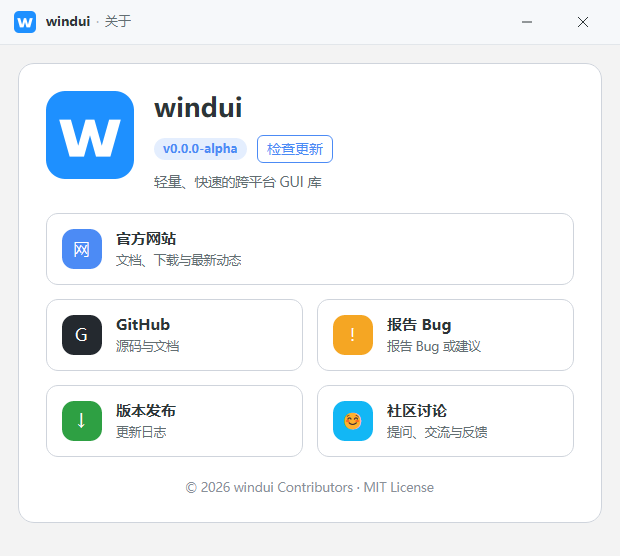
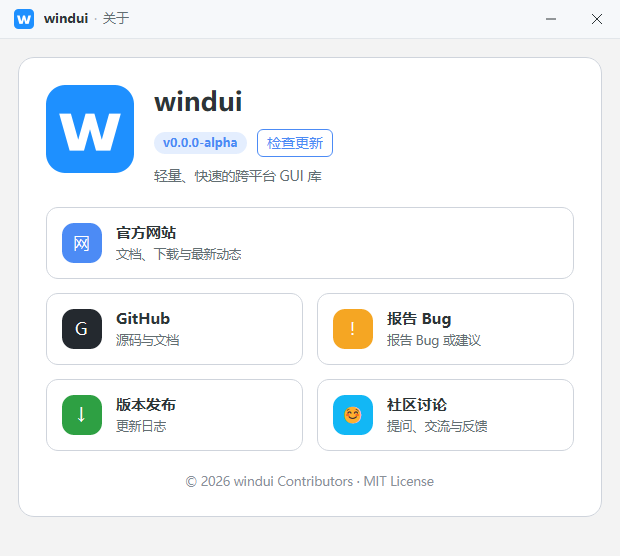
feat(examples): 标题栏改全包式，按钮吃满整条、关闭键落在窗口圆角上
示例外壳 Shell 的标题栏此前是「按钮浮在条中间、右侧还留 14px」，
与 Windows 差得一眼可见。三处调整都在布局，控件一行没改：

- cross(Align::Center) 改 Stretch。WindowButton::measure 报的是
  BTN_H = 32，Center 会照此把按钮浮在条中间；Stretch 用容器高度
  覆盖它，按钮才吃满整条。
- padding_xy(14, 0) 从标题栏 row 下沉到左侧品牌区。挂 row 上是四周
  一起缩，最右那枚按钮被推离窗口边 14px，圆角处露出一块底色。
- 高度 44 改 38，logo 22 改 20。44 让按钮成 46×44 近正方形；38 是
  46×38，与系统的 46×32 同一个观感，又放得下 logo。

关闭键的 hover 红底仍按方角画：窗口在 Win11 上声明了 DWMWCP_ROUND，
合成期由 DWM 裁角。真窗口抓屏核到顶部逐行右缘 10→7→6→5→4→3→2 的
收敛曲线，即圆角轮廓；改前是恒定的 20（方角、没到边）。
--screenshot 读客户区后备纹理，四角恒方，这条只能靠抓屏验。

明暗切换键一并改成标题栏条目，与三枚窗口按钮同一套视觉：
- icon_button 换 stack().clickable()。IconButton 的圆角是
  `if corner_radius > 0 { 它 } else { theme.corner_sm }`，
  .corner(0.0) 拿不到方角，只会回落到主题圆角。
- 尺寸钉 46 宽 + height_match，图标色 TextMuted 改 Text——此前比
  邻居淡一档。
- 居中的 align 挂在图标而非容器上：align 是「自身在父容器里的对齐」，
  挂容器上对子元素无效，实测字形偏在格子左上角（dx=-16.5 dy=-10）。

仍存一处未对齐：Clickable 的 hover 叠层是 palette.text × 0.06，
WindowButton 用的是据标题栏底亮度选的写死值（亮底 0x14 暗底 0x20），
亮色下压暗 12 级 vs 20 级。要精确对齐得把那段叠层逻辑抽成可复用的，
留待与下游 wind-dict 的 bar_entry 一并处理。

readme_shots.ps1 的三个 --click 随标题栏矮 6px 重新量准；七张配图重生。

diff --git a/examples/common/mod.rs b/examples/common/mod.rs
@@ -19,7 +19,11 @@
 use windui::prelude::*;
 
 /// 标题栏高度（逻辑像素）。窗口按钮的命中区按它撑满，故改这里即可整体调整。
-pub const TITLEBAR_H: i32 = 44;
+///
+/// 38 而非 Windows 系统标题栏那个 32：这一条里还要放下 20px 的 logo，32 会让它上下
+/// 只剩 6px、挤得贴边。38 与下游 wind-dict 同值，按钮成 46×38——仍是横向舒展的扁矩形，
+/// 与系统的 46×32 同一个观感。**曾经是 44**，那让按钮接近正方形，一眼就不像 Windows。
+pub const TITLEBAR_H: i32 = 38;
 
 /// 示例窗口的外壳配置。
 ///
@@ -52,6 +56,12 @@ impl Shell {
 
     /// 在窗口按钮**左侧**插入自定义元素（明暗切换、页内动作等）。
     ///
+    /// 元素会被标题栏的 `cross(Align::Stretch)` **拉到整条满高**，与窗口按钮连成一排，
+    /// 中间不留缝——这正是全包式想要的样子。所以放进来的东西得经得起拉伸：`clickable()`
+    /// 容器（方角、hover 铺满）合适，`icon_button` 那类自带圆角底的**不合适**，会变成
+    /// 一根竖着的圆角条杵在方角按钮旁边。要保持自然高度，自己包一层
+    /// `Element::row().cross(Align::Center)`。现成的例子见 [`theme_toggle`]。
+    ///
     /// 注意它落在 `window_drag()` 区域内：可聚焦的控件（按钮等）会自行吃掉按下事件、
     /// 不触发拖窗；纯 `Label` 则会连同标题栏一起被拖走——需要点击的请用 `clickable()`
     /// 容器或正经控件包一层。
@@ -62,40 +72,66 @@ impl Shell {
 
     /// 只构建标题栏本身。需要把它塞进更复杂的层叠结构时用；
     /// 常规情况直接用 [`wrap`](Shell::wrap)。
+    ///
+    /// 窗口按钮走**全包式**（同 `frameless` / `light_titlebar` 两个示例，以及下游
+    /// wind-dict）：按钮吃满整条标题栏的高度，最右那枚关闭键与窗口右边齐平。两处
+    /// 都是布局说了算，不用改控件：
+    ///
+    /// - `cross(Align::Stretch)` 覆盖掉 `WindowButton::measure` 报的 `BTN_H = 32`，
+    ///   按钮高度变成 `TITLEBAR_H`。此前是 `Align::Center`，按钮只有 32 高、浮在
+    ///   44 高的条中间，hover 底色是一枚悬空的小方块。
+    /// - 内边距挂在**左侧品牌区**这个子容器上，不挂在整条 row 上。挂 row 上是四周
+    ///   一起缩，右侧按钮会被推离窗口边 14px，圆角处就空出一块底色。
+    ///
+    /// 关闭键的 hover 红底照旧按方角 `fill_rect` 画：窗口在 Win11 上显式声明了
+    /// `DWMWCP_ROUND`（见 `platform::win32`），合成期由 DWM 裁角，落到屏上自然是
+    /// 圆角。自己再画一遍圆角反而会与系统的半径对不齐。
     pub fn titlebar(self) -> Element {
         let mut bar = Element::row()
             .width_match()
             .height(TITLEBAR_H)
-            .cross(Align::Center)
-            .padding_xy(14, 0)
-            .spacing(10)
+            .cross(Align::Stretch)
             .bg_role(Role::SurfaceAlt)
             .window_drag()
-            .child(brand_logo(22))
-            // 三段式标题：产品名加粗、间隔点与副标题弱化，形成层级而不是一行同权重的字。
+            // 品牌区：logo + 三段式标题。自带内边距与间距，见上面那段。
+            // 里层重新 `cross(Center)`，免得 Stretch 把 logo 与文字拉变形。
             .child(
                 Element::row()
                     .cross(Align::Center)
-                    .spacing(5)
+                    .padding_xy(14, 0)
+                    .spacing(10)
+                    .child(brand_logo(20))
+                    // 三段式标题：产品名加粗、间隔点与副标题弱化，形成层级而不是一行同权重的字。
                     .child(
-                        Element::label("windui")
-                            .font_size(13.0)
-                            .font_weight(600)
-                            .fg_role(Role::Text),
-                    )
-                    .child(
-                        Element::label("·")
-                            .font_size(13.0)
-                            .fg_role(Role::TextDisabled),
-                    )
-                    .child(
-                        Element::label(self.subtitle)
-                            .font_size(13.0)
-                            .fg_role(Role::TextMuted),
+                        Element::row()
+                            .cross(Align::Center)
+                            .spacing(5)
+                            .child(
+                                Element::label("windui")
+                                    .font_size(13.0)
+                                    .font_weight(600)
+                                    .fg_role(Role::Text),
+                            )
+                            .child(
+                                Element::label("·")
+                                    .font_size(13.0)
+                                    .fg_role(Role::TextDisabled),
+                            )
+                            .child(
+                                Element::label(self.subtitle)
+                                    .font_size(13.0)
+                                    .fg_role(Role::TextMuted),
+                            ),
                     ),
             )
             .child(Element::leaf().weight(1.0));
 
+        // 自定义元素直接进 row，与窗口按钮一样吃满高度、彼此贴死，连成一排。
+        //
+        // 曾经包了一层 `cross(Center)` 再留 8px 右缝，那是为了迁就 `icon_button` 的
+        // 圆角底——结果是一枚浮在条中间的小圆角块紧挨着三枚方角满高按钮，两种视觉
+        // 语言并排。与其让标题栏迁就控件，不如让控件长成标题栏该有的样子，见
+        // [`theme_toggle`]；`trailing` 的文档里写明了这条约束。
         for e in self.trailing {
             bar = bar.child(e);
         }
@@ -176,10 +212,26 @@ pub fn section_title(title: &str) -> Element {
 ///
 /// 主题不是"再建一棵树"，而是 `ThemeHandle::set` 整树热切换：用 `*_role` 表达的颜色
 /// 自动跟随，写死的 `Color::hex` 不跟随——这正是示例统一走 `Role` 的理由。
+///
+/// **为什么是 `stack().clickable()` 而不是 `icon_button`**：它要和右边三枚窗口按钮
+/// 排成一列同类物，`icon_button` 三条都对不上——
+/// - 圆角：`IconButton` 的半径是 `if corner_radius > 0 { 它 } else { theme.corner_sm }`，
+///   即 **`.corner(0.0)` 拿不到方角**，只会回落到主题圆角。`Clickable` 直接用
+///   `style.corner_radius`，默认 0，正是要的方角。
+/// - 尺寸：`IconButton::measure` 报的是字号推出来的方块（下限 30×30），与 46×TITLEBAR_H
+///   对不上；这里直接钉死 46 宽、`height_match()` 吃满高。
+/// - 图标色：窗口按钮在 [`Shell::titlebar`] 里走 `Role::Text`，此处**曾是 `TextMuted`**，
+///   天生比邻居淡一档——并排看就是「这枚是不是灰掉了」。
+///
+/// 仍有一处对不齐：hover 底色。`Clickable` 用 `palette.text × 0.06`，而 `WindowButton`
+/// 用的是据标题栏底亮度选的写死值（亮底黑 `0x14`、暗底白 `0x20`）。方向一致，暗色主题下
+/// 前者约淡一半。要精确对齐得改库（把那段叠层逻辑变成可复用的东西），不在示例里绕。
 pub fn theme_toggle(th: ThemeHandle, dark: Signal<bool>) -> Element {
-    Element::icon_button("◐")
+    Element::stack()
+        .width(46)
+        .height_match()
+        .clickable()
         .tooltip("切换明暗主题")
-        .fg_role(Role::TextMuted)
         .on_click(move |_| {
             let next = !dark.get();
             dark.set(next);
@@ -189,4 +241,14 @@ pub fn theme_toggle(th: ThemeHandle, dark: Signal<bool>) -> Element {
                 Theme::default()
             });
         })
+        .child(
+            // `align` 是**自身**在父容器里的对齐（`Node::align` 的定义），不是容器摆
+            // 子元素的方式——挂在 stack 上等于说「这个 stack 在标题栏里居中」，对图标
+            // 毫无作用，实测字形贴在格子左上角（偏 dx=-16.5, dy=-10）。要居中就挂在
+            // 图标自己身上：Frame 里一个 `align` 同时管两轴。
+            Element::label("◐")
+                .font_size(14.0)
+                .fg_role(Role::Text)
+                .align(Align::Center),
+        )
 }

diff --git a/docs/API_GUIDE.md b/docs/API_GUIDE.md
@@ -431,6 +431,16 @@ Element::stepper(value, min, max, step)           // value: Signal<f64>；min/ma
 //  中部是完整的文本输入框（可拖选/双击选词/Ctrl+A·C·X·V/右键菜单/输入法，与 text_input 同源）；
 //  ↑↓ 步进、Enter 提交并全选、Esc 撤销本轮编辑、失焦自动提交（越界钳回、按步长小数位规整）；
 //  非数字键入与粘贴一律拒绝。返回的是行容器 [−][输入框][+]，默认宽 120，.width()/.disabled() 照旧
+Element::color_picker(color)                      // color: Signal<Color>；色块触发器 + 锚定下拉取色面板
+Element::color_picker_opts(color, ColorPickerOpts::default()
+    .alpha(false)            // 去掉透明度条（输出恒不透明）
+    .hex(false)              // 去掉 HEX 输入框
+    .presets(vec![..])       // 换一组预设色（空 = 不显示该行）
+    .panel_width(232)        // 面板宽（预设每行放几个据此算）
+    .trigger_text(false)     // 触发器只留一枚方色块（工具栏用），不显示 HEX 与箭头
+    .open(open_signal))      // 自带展开信号，可从外部收起面板
+//  面板 = SV 方块（饱和度×明度）+ 色相条 + 透明度条 + HEX 框 + 预设色，全部双向绑同一个信号；
+//  点面板外或按 ESC 收起。HSVA 存在控件内部，故把明度拖到黑再拖回来色相不会丢（RGB 反算会丢）。
 Element::list(vec!["行1", "行2"], selected)       // selected: Signal<usize>
 Element::list_pill(vec!["方案", "外观"], selected)         // 同 list，选中为内缩圆角 pill（侧栏导航）
 Element::list_icons(vec![("收件箱", icon), ..], selected)  // 带前置图标的行（icon: ImageContent）
@@ -813,6 +823,10 @@ App::new("…", w, h).frameless().content(Element::col().fill().child(title_bar)
 - `Element::window_drag()` 标记拖动区（自定义标题栏）：命中非交互区拖窗、命中可聚焦控件（按钮/输入）则不拖、交控件处理。
   判定**沿父链自内向外，先遇到谁听谁**：可聚焦节点算交互控件、`window_drag` 算拖动区。故拖动区里放 `.clickable()` 容器是安全的——容器内的文字、图标一并算交互区（这些子节点自己不可聚焦，只看落定节点的话会被判成拖窗，表现为"只有文字周围的空隙能点"）。反过来，可聚焦容器里再嵌一条 `window_drag` 也成立：内层更具体，拖动区赢。
 - `Element::window_button(WindowButtonKind::{Minimize,Maximize,Close})`：自绘标准图标 + hover/press（关闭键 hover 转红）；图标色取 `.fg()`（深色标题栏用 `.fg(WHITE)`）。点击调 `EventCtx::minimize()/toggle_maximize()/request_close()`——关闭键与系统 × 同走关闭决策链，`on_close_request` 一样拦得住（见 §8.7）。
+- **全包式（按钮吃满整条标题栏、关闭键落在窗口圆角上）** 是系统标题栏的样子，也是所有示例的做法。两个条件都由布局决定，不必改控件：
+  - 标题栏 row 写 `cross(Align::Stretch)`。控件 `measure` 报的是 32 高（近 Windows 默认），`Align::Center` 会让它照此高度浮在条中间，只有 Stretch 才用容器高度覆盖它。
+  - **内边距挂在左侧内容的子容器上，不要挂在标题栏 row 上**。挂 row 上是四周一起缩，最右那枚按钮被推离窗口边，圆角处露出一块标题栏底色。左侧内容记得在自己那层重新 `cross(Align::Center)`，否则 logo 与文字会被 Stretch 拉变形。
+  - 关闭键的 hover 红底照旧按**方角**画：Win11 上窗口显式声明了 `DWMWCP_ROUND`，合成期由 DWM 裁角。自己再画一遍圆角会与系统半径对不齐，且 `--screenshot` 读的是客户区、根本截不到圆角，验不出来。
 - **拖动区右键弹出窗口系统菜单**（还原 / 最小化 / 最大化 / 关闭），按窗口当前状态与能力自动置灰——已最大化时「最大化」灰、「还原」亮；`resizable(false)` 的对话框式窗口两者皆灰。**默认开启，零代码**；`App::system_menu(false)` / `Window::system_menu(false)` 关掉。
   项数恒为五（含分隔线）、只改可用性，与 Windows 系统菜单一致：项数固定，「第三行是最大化」这种肌肉记忆才成立。
   「关闭」走 `request_close()`，与自绘 × 同一条关闭决策链，`on_close_request` 一样拦得住——右键菜单不是绕过守卫的后门。
@@ -861,6 +875,35 @@ Windows 走 **Direct2D**（feature `d2d`，默认**开**），macOS 走 **wgpu/M
 [`docs/gpu-cross-platform-design.md`](gpu-cross-platform-design.md)。
 
 ---
+
+### 锚定浮层（下拉面板）
+
+需要「浮在内容之上、点外面就收起」的临时界面（取色盘、日期选择、自定义下拉），用
+`Element::popup` 把面板挂到触发器上：
+
+```rust
+let open = signal(false);
+let panel = Element::col()
+    .padding(12)
+    .bg_role(Role::Surface)          // 面板必须自带背景，它压在任意内容之上
+    .corner(10.0)
+    .child(Element::label("浮层内容"));
+
+Element::button("展开")
+    .on_click(move |_| open.set(!open.get()))
+    .popup(open, panel)
+```
+
+框架为浮层节点做三件普通子节点做不到的事：**脱离父容器布局流**（不占位、不撑大父容器）、
+**在整棵树之后绘制且不受祖先 `clip_children` 裁剪**、**命中先于整棵树**。定位是「贴在触发器
+正下方，下方装不下就翻到上方」，与下拉菜单同一口径。
+
+轻量关闭由框架负责：在浮层**与触发器**之外按下、或按 ESC，都会把 `open` 置 false。
+点在触发器自身上时框架不插手——那一下归你的 `on_click` toggle，否则会「先被关掉、再被打开」，
+点了等于没点。
+
+与 `Element::dialog` 的分工：对话框是**模态**的（铺满全窗、压暗背景、要求先处理完）；
+浮层是**非模态**的，只借一小块地方，不拦其余交互。
 
 ## 6. 布局系统
 
